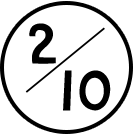
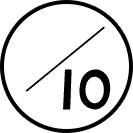
item

diff --git a/src/components/itemcontainer.vue b/src/components/itemcontainer.vue
@@ -1,17 +1,29 @@
 <template>
   	<section>
-    	<header class="top_tips">
-    		<span class="num_tip" v-if="fatherComponent == 'home'">{{level}}</span>
-    		<span class="num_tip" v-if="fatherComponent == 'item'">题目{{itemNum}}</span>
+    	<header :class="{'top_tips':fatherComponent == 'item'}">
+    		<span class="num_tip" v-if="fatherComponent == 'item'">{{itemNum}}</span>
     	</header>
     	<div v-if="fatherComponent == 'home'" class="ov">
     		<!-- <div class="home_logo item_container_style"></div> -->
 				<img class="home-title" src="../images/DIR/7.png" alt="" width="80%">
 				<!-- <div>你好啊</div> -->
-    		<router-link to="item" class="start button_style" ></router-link>
+    		<div class="start button_style" ></div>
+    		<router-link to="item" tag="div" class="home-mask" ></router-link>
+        <!-- <div class="" to="item"></div> -->
     	</div>
     	<div v-if="fatherComponent == 'item'" >
-    		<div class="item_back item_container_style">
+        <div class="item-wra ov" :class="">
+          <p class="tc">safaf</p>
+          <div class="answers">
+            <div class="ans-i">
+              <p>234</p>
+              <p>234</p>
+              <p>234</p>
+              <p>234</p>
+            </div>
+          </div>
+        </div>
+    		<!-- <div class="item_back item_container_style">
     			<div class="item_list_container" v-if="itemDetail.length > 0">
     				<header class="item_title">{{itemDetail[itemNum-1].topic_name}}</header>
     				<ul>
@@ -21,9 +33,7 @@
     					</li>
     				</ul>
     			</div>
-    		</div>
-    		<span class="next_item button_style" @click="nextItem" v-if="itemNum < itemDetail.length"></span>
-    		<span class="submit_item button_style" v-else @click="submitAnswer"></span>
+    		</div> -->
     	</div>
   	</section>
 </template>
@@ -75,6 +85,7 @@ export default {
     choosed(type, id) {
       this.choosedNum = type;
       this.choosedId = id;
+      this.nextItem();
     },
     //到达最后一题，交卷，请空定时器，跳转分数页面
     submitAnswer() {
@@ -88,9 +99,8 @@ export default {
     }
   },
   created() {
-    //初始化信息
-    // this.initializeData();
-    // document.body.style.backgroundImage = 'url(./static/img/1-1.jpg)';
+    // 初始化信息
+    this.initializeData();
   }
 };
 </script>
@@ -103,28 +113,36 @@ export default {
   src: url("../style/Litchi.ttf") format("truetype");
 }
 
+.home-mask {
+  width: 100%;
+  height: 100%;
+  position: absolute;
+  top: 0;
+  left: 0;
+  z-index: 9;
+}
+
 body {
   color: #000;
 }
 .top_tips {
   position: absolute;
-  height: 7.35rem;
+  height: 3.25rem;
   width: 3.25rem;
-  top: -1.3rem;
+  top: 1.7rem;
   left: 1.6rem;
-  background: url(../images/WechatIMG2.png) no-repeat;
+  background: url(../images/DIR/12.png) no-repeat;
   background-size: 100% 100%;
   z-index: 10;
   .num_tip {
     position: absolute;
     left: 0.48rem;
-    bottom: 1.1rem;
-    height: 0.7rem;
-    width: 2.5rem;
-    font-size: 0.6rem;
-    font-family: "黑体";
-    font-weight: 600;
-    color: #a57c50;
+    bottom: 1.3rem;
+    // height: 0.7rem;
+    // width: 2.5rem;
+    font-size: 1.6rem;
+    // font-family: "黑体";
+    // color: #a57c50;
     text-align: center;
   }
 }
@@ -139,12 +157,12 @@ body {
 .home-title {
   margin: 0 auto;
   display: block;
-  margin-top: 6.3rem;
+  margin-top: 5.9rem;
 }
-.item_back {
-  background-image: url(../images/2-1.png);
-  background-size: 100% 100%;
-}
+// .item_back {
+//   background-image: url(../images/2-1.png);
+//   background-size: 100% 100%;
+// }
 .button_style {
   display: block;
   height: 4.7rem;
@@ -207,6 +225,59 @@ body {
   .option_detail {
     width: 7.5rem;
     padding-top: 0.11rem;
+  }
+}
+
+.item-wra {
+  // width: 8rem;
+  position: absolute;
+  top: 5.7rem;
+  left: 1.7rem;
+  right: 1.7rem;
+  border: 2px solid #0e050a;
+  border-radius: 0.5rem;
+  box-shadow: 0.17rem 0.17rem #deaf1f;
+  >p {
+    padding: 0.7rem 0;
+    background: #0e050a;
+    color: #ffe100;
+    &:before {
+      content: " ";
+      display: block;
+      position: absolute;
+      left: 0.1rem;
+      top: 0.1rem;
+      width: 1.9rem;
+      height: 0.7rem;
+      background: url(../images/DIR/13.png) no-repeat;
+      background-size: contain;
+    }
+  }
+  .answers {
+    background: #fff;
+    padding: 1rem;
+    .ans-i{
+      width: 100%;
+      height: 100%;
+      position: relative;
+      &:before{
+        content: " ";
+        display: block;
+        position: absolute;
+        width: 100%;
+        border: 2px dashed #393939;
+        top: 50%;
+      }
+      &:after{
+        content: " ";
+        display: block;
+        position: absolute;
+        height: 100%;
+        border: 2px dashed #393939;
+        left: 50%;
+        top: 0;
+      }
+    }
   }
 }
 </style>

diff --git a/src/store/index.js b/src/store/index.js
@@ -16,7 +16,7 @@ const state = {
 		"topic_id": 20,
 		"active_topic_id": 4,
 		"type": "ONE",
-		"topic_name": "题目一",
+		"topic_name": "下面哪个图标是对的",
 		"active_id": 1,
 		"active_title": "欢乐星期五标题",
 		"active_topic_phase": "第一周",
@@ -26,28 +26,32 @@ const state = {
 			"topic_answer_id": 1,
 			"topic_id": 20,
 			"answer_name": "答案aaaa",
+			"answer_img": "1_2.png",
 			"is_standard_answer": 0
 		}, {
 			"topic_answer_id": 2,
 			"topic_id": 20,
 			"answer_name": "正确答案",
-			"is_standard_answer": 0
+			"answer_img": "1_1.png",
+			"is_standard_answer": 1
 		}, {
 			"topic_answer_id": 3,
 			"topic_id": 20,
 			"answer_name": "答案cccc",
+			"answer_img": "1_3.png",
 			"is_standard_answer": 0
 		}, {
 			"topic_answer_id": 4,
 			"topic_id": 20,
 			"answer_name": "答案dddd",
-			"is_standard_answer": 1
+			"answer_img": "1_4.png",
+			"is_standard_answer": 0
 		}]
 	}, {
 		"topic_id": 21,
 		"active_topic_id": 4,
 		"type": "MORE",
-		"topic_name": "题目二",
+		"topic_name": "2",
 		"active_id": 1,
 		"active_title": "欢乐星期五标题",
 		"active_topic_phase": "第一周",
@@ -78,7 +82,7 @@ const state = {
 		"topic_id": 21,
 		"active_topic_id": 4,
 		"type": "MORE",
-		"topic_name": "题目三",
+		"topic_name": "3",
 		"active_id": 1,
 		"active_title": "欢乐星期五标题",
 		"active_topic_phase": "第一周",
@@ -109,7 +113,7 @@ const state = {
 		"topic_id": 21,
 		"active_topic_id": 4,
 		"type": "MORE",
-		"topic_name": "题目四",
+		"topic_name": "4",
 		"active_id": 1,
 		"active_title": "欢乐星期五标题",
 		"active_topic_phase": "第一周",
@@ -140,7 +144,7 @@ const state = {
 		"topic_id": 21,
 		"active_topic_id": 4,
 		"type": "MORE",
-		"topic_name": "题目五",
+		"topic_name": "5",
 		"active_id": 1,
 		"active_title": "欢乐星期五标题",
 		"active_topic_phase": "第一周",

diff --git a/src/page/score/index.vue b/src/page/score/index.vue
@@ -1,9 +1,9 @@
 <template>
   	<div>
     	<div class="your_scores_container">
-            <header class="your_scores"><span class="score_num">{{score}}</span><span class="fenshu">分！</span></header>
-            <div class="result_tip">{{scoreTips}}</div>
-        </div>
+          <header class="your_scores"><span class="score_num">{{score}}</span><span class="fenshu">分！</span></header>
+          <div class="result_tip">{{scoreTips}}</div>
+      </div>
         <div class="share_button" @click="showCover"></div>
         <div class="share_code">
             <header class="share_header">关注葡萄之家，获取答案。</header>

diff --git a/src/page/home/index.vue b/src/page/home/index.vue
@@ -12,7 +12,13 @@ export default {
   components: {
     itemcontainer
   },
-  created() {}
+  created() {
+    // 这句用于页面后退时, 更换为正确的背景图
+    // 这里用static路径(要确保此图片路径在整个项目里有被使用才能用static路径找到)
+    // created内不能用原来的路径 '../../images/DIR/1.png' 么?
+    // 因为此时页面已解析完成?
+    document.body.style.backgroundImage = 'url(./static/img/1.png)';
+  }
 };
 </script>
 

diff --git a/src/page/item/index.vue b/src/page/item/index.vue
@@ -13,6 +13,9 @@ export default {
     itemcontainer
   },
   created() {
+        document.body.style.backgroundImage = 'url(./static/img/16.jpg)';
+
+    // document.body.style.backgroundImage = 'url(../../images/DIR/16.jpg)';
     //进入题目页面，开始计时
     this.$store.commit("REMBER_TIME");
   }
@@ -20,5 +23,7 @@ export default {
 </script>
 
 <style lang="less">
-
+body {
+  background-image: url(../../images/DIR/16.jpg);
+}
 </style>

diff --git a/index.html b/index.html
@@ -8,7 +8,7 @@
     <meta name="format-detection" content="telephone=no">
     <meta name="full-screen" content="yes">
     <meta name="x5-fullscreen" content="true">
-    <title>vue2-happyfri</title>
+    <title>vue2-quiz</title>
   </head>
   <body>
     <div id="app">

diff --git a/src/style/common.less b/src/style/common.less
@@ -49,7 +49,7 @@ html {
 body {
   height: 100%;
   width: 100%;
-  background: url(../images/DIR/1.png) no-repeat;
+  background-image: url(../images/DIR/1.png);
   background-size: 100% 100%;
 }
 
